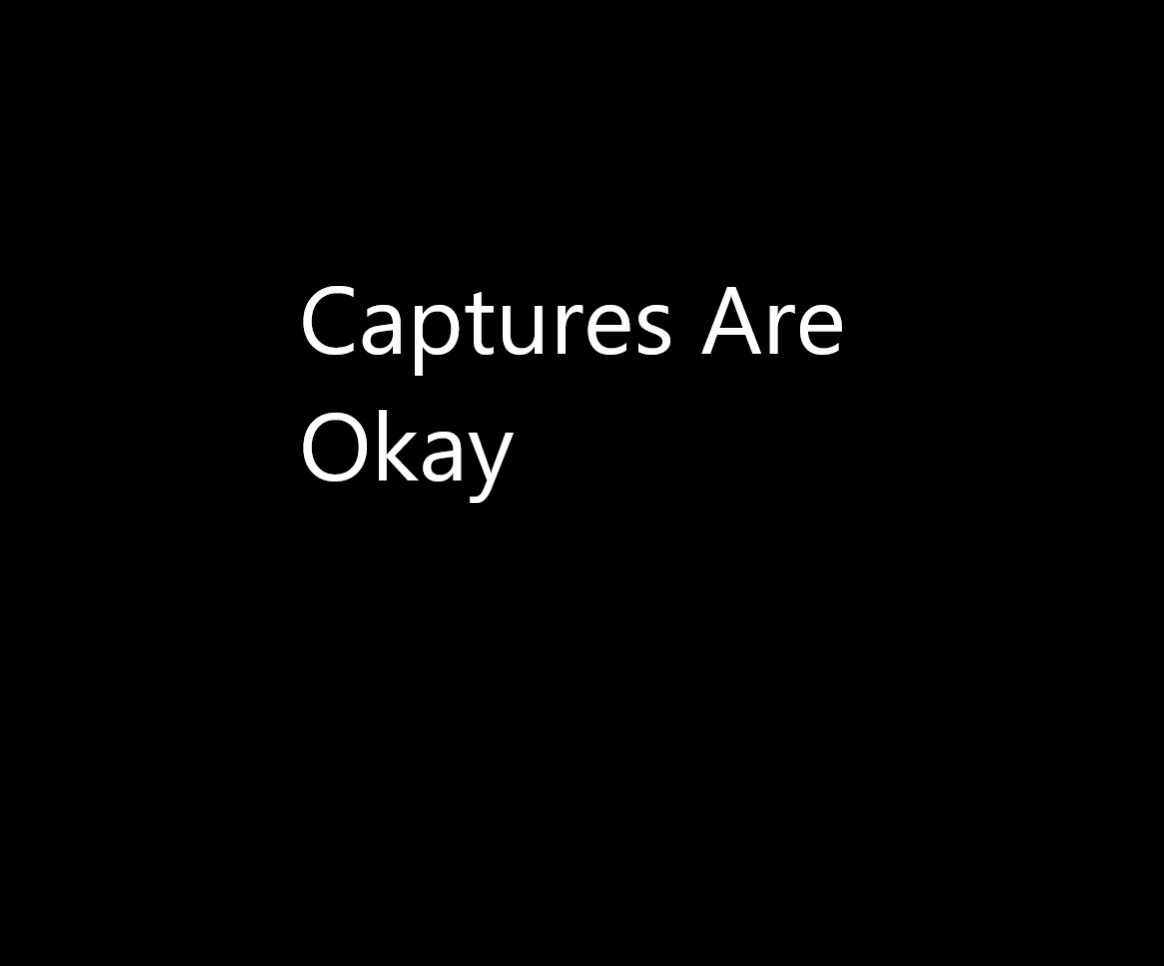
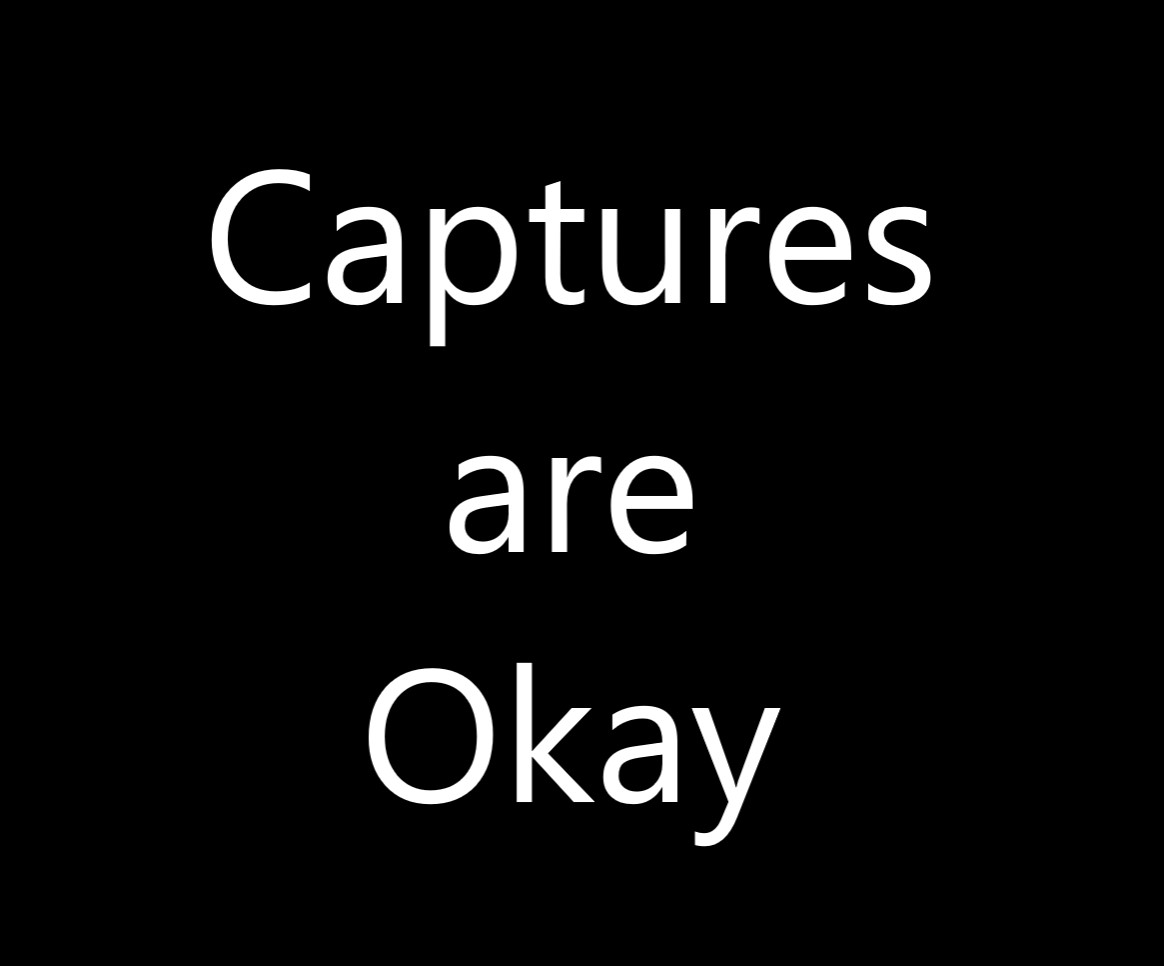
v1.03. Change preview image. Add tags.
Not sure how to change name from "modpreview.jpg." Oh well.
Change title to use lowercase "are."

diff --git a/readme.md b/readme.md
@@ -1,6 +1,6 @@
 # CapturesAreOkay README
 
-This is the README for the XCOM: Chimera Squad mod, 'Captures Are Okay.' 
+This is the README for the XCOM: Chimera Squad mod, 'Captures are Okay.' 
 
 The game has a bug where kills are rewarded XP but captures aren't. What kind of message is that sending? This mod is to fix that bug.
 
